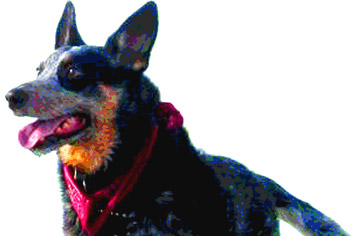
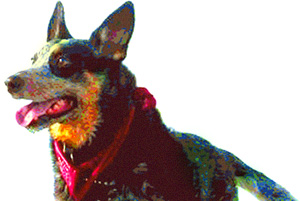
making shit look all nice and whatnot

diff --git a/interfaces/php/admin/ui/default/assets/css/admin.css b/interfaces/php/admin/ui/default/assets/css/admin.css
@@ -385,13 +385,13 @@ ul.pagebasemenu ul {padding:0;margin-top:0;margin-bottom:0;font-size:0.8em;font-
 .introductorybanner.flush {margin-bottom:0;}
 .introductorybanner div.closelink {position:absolute;right:5px;bottom:4px;text-align:right;font-size:12px;}
 .introductorybanner div.closelink a {color:#fff;}
-.mainpage.introductorybanner {padding:33px 24px 55px 205px;min-height:165px;}
+.mainpage.introductorybanner {padding:33px 24px 55px 180px;min-height:165px;}
 .mainpage.introductorybanner a {font-weight:bold;}
 .mainpage.introductorybanner div.closelink a {color:#999997;font-weight:normal;}
 .mainpage.introductorybanner .moreinfospc {margin:0;padding:0;text-align:right;font-size:14px;}
 .mainpage.introductorybanner .moreinfospc a {color:#000;background-color:#ff0;padding:0 0.5em 0 0.5em;}
 .mainpage.introductorybanner .mainbannercontent {margin:0;padding:0;position:relative;z-index:100;}
-.mainpage.introductorybanner img.bannerbg {position:absolute;left:5px;bottom:0;z-index:10;width:352px;height:236px;}
+.mainpage.introductorybanner img.bannerbg {position:absolute;left:5px;bottom:0;z-index:10;width:300px;height:201px;}
 .introductorybanner div.titlespc {position:absolute;left:10px;top:24px;font-size:11px;line-height:1.3em;color:#fff;}
 .introductorybanner h2 {font-size:24px;line-height:30px;margin:0 0 1px 0;padding:0;}
 div.gettingstarted {font-size:17px;padding-top:18px;color:#a49c9c;}
